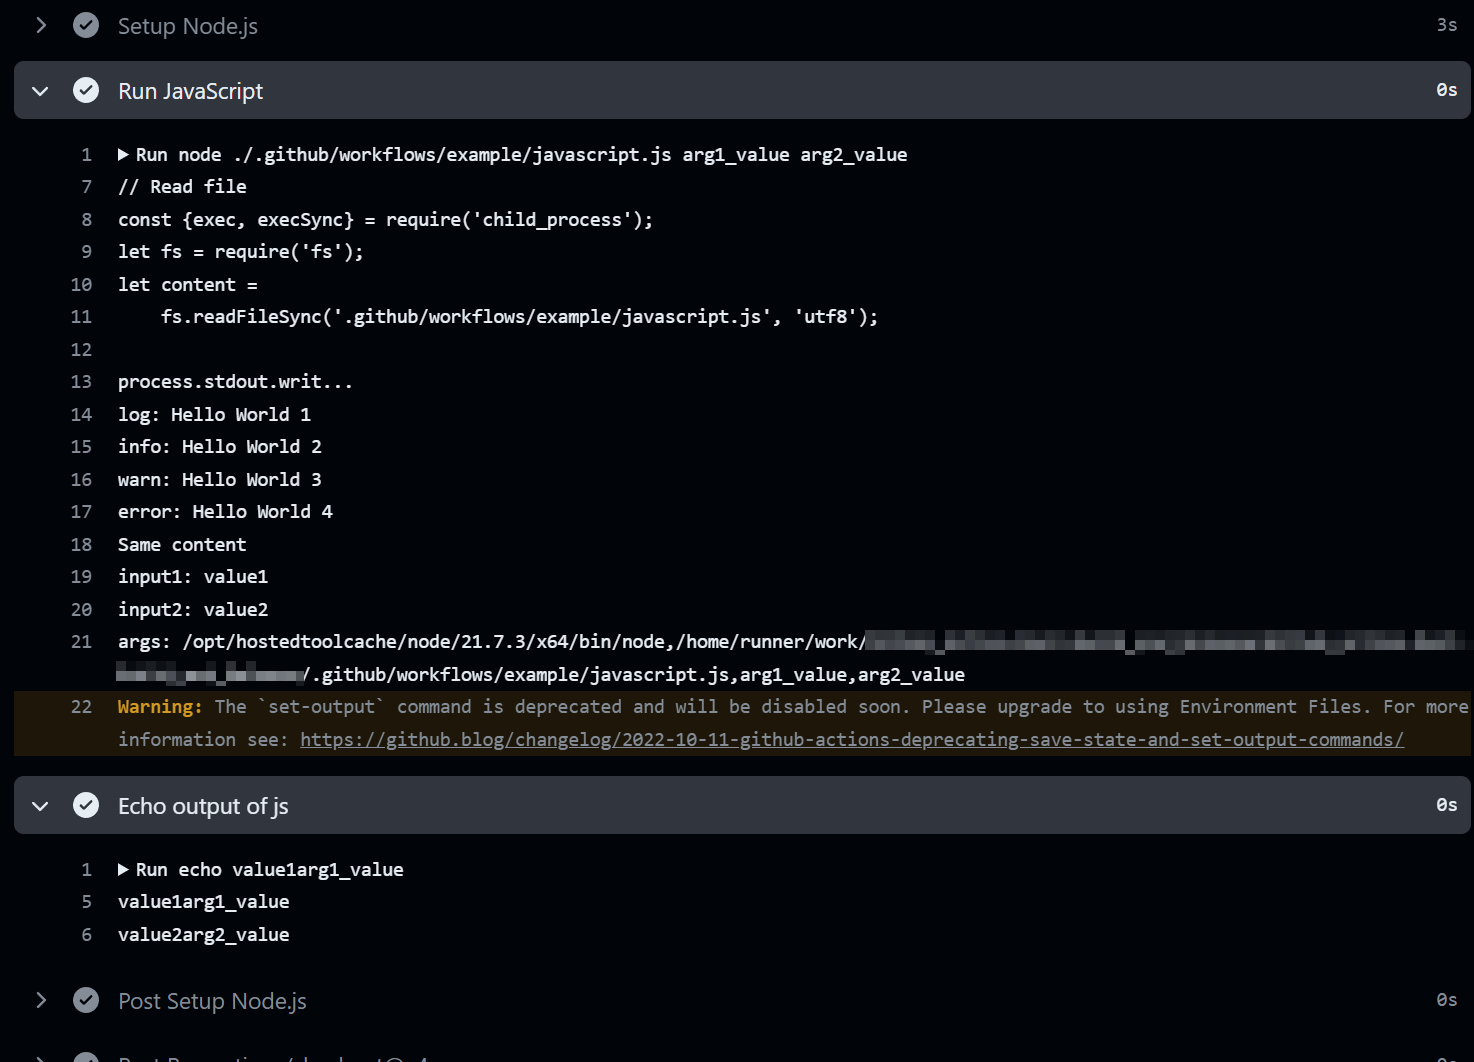
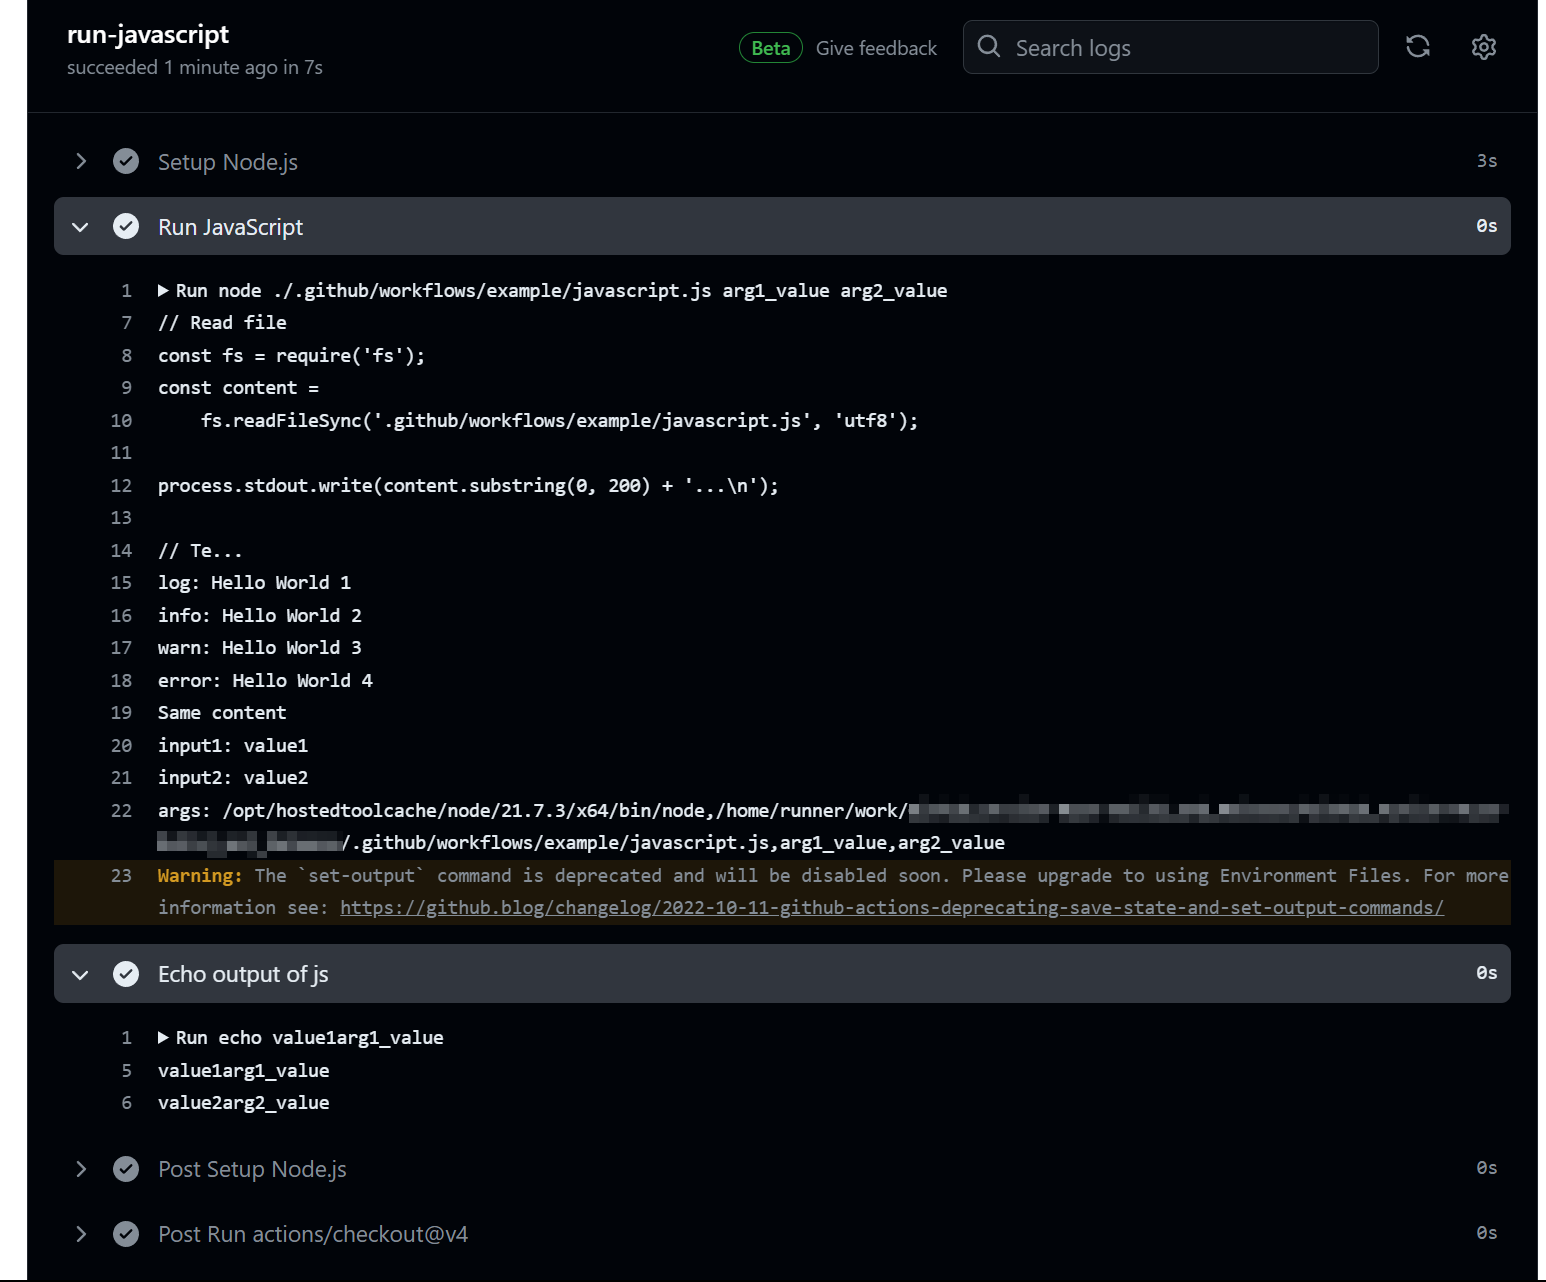
updateupdate

Changed region(s): [[0.0, 0.0, 1.0, 1.0], [0.4681, 0.3729, 0.4993, 0.404]]

diff --git a/tutorial.md b/tutorial.md
@@ -23,12 +23,12 @@
   - [设置和使用环境变量, 在步骤间传递参数, 在工作间传递参数](#环境参数的定义,-使用,-与传递)
   - 在工作间传递文件
 - 进阶 - 运行其它格式的脚本
-  - [Javascript 脚本](#镇楼)
+  - [Javascript 脚本](#运行-javascript-脚本)
   - Python 脚本
 - 进阶 - 外部 Action 的使用
   - 上传文件到 workflow: actions/upload-artifact@v4 [(repo hyperlink)](https://github.com/actions/upload-artifact)
   - 使用仓库的文件和代码: actions/checkout@v4 [(repo hyperlink)](https://github.com/actions/checkout)
-  - 创建和发布 release
+  - 创建和发布 release: actions/create-release@v1 [(repo hyperlink)](https://github.com/actions/create-release), actions/upload-release-asset@v1 [(repo hyperlink)](https://github.com/actions/upload-release-asset)
 - 进阶 - Github REST API
 - 高级 - 更多技巧
   - Matrix 矩阵, 复用代码
@@ -549,6 +549,23 @@ fs.writeFileSync(process.env.GITHUB_OUTPUT, 'output2=' + env2 + arg2);
 
 ```
 
-javascript
+上面的 js 展示了几个非常常用的 node js 技巧,  
+- 首先, 是读文件, 我们需要 require('fs') 库. 然后直接同步读取文件内容即可.
+- 其次是输出到控制台, 通常情况下, log/info/warn/error 不会有多大的区别, 如果你发现 console.log 的输出没有打印出来, 可以试试 console.warn 等.
+- 接着, 是执行 shell 脚本. 有些时候我们需要从 shell 脚本的输出结果中获取信息, 我们在执行后将返回值 toString 即可获得输出内容. 比较的结果显示 output2 保存的正是 content1 同样的文本.
+- 然后, 从输入参数, 环境变量中获取信息. Javascript 毕竟是为了简化 shell 脚本, 将一些信息提前并转化为其它信息. 输入参数与环境变量分别存储在 `process.argv` 和 `process.env` 中供取用.
+- 最后, 就是返回输出信息. 这里的返回值不是通过 return 的形式返回的, 我们通过向控制台输出 `:set-output name={name}::{value}` 来将 value 保持为单步的输出, 供下一步使用. 然而, 这种方式以及过时了, 更好的办法是 `fs.writeFileSync(process.env.GITHUB_OUTPUT, 'name={name}');` 来完成.
 
-![run-javascript](image-13.png)
+观察我们的 输出结果, 看到, 首先打印了文件的前 200 字, 然后测试了四种输出方式均无异常, 接着执行shell命令获取了文件的字符串, 和直接读取的结果一致. 然后展示了可以获取和保存变量.
+下一步我们打印了两个输出的变量, 证明了保持的成功性.
+
+![javascript-output](image-13.png)
+
+### 更好的执行脚本
+
+我们可以用外部库 [actions/github-script](https://github.com/actions/github-script)
+
+它有一些更高级的功能.
+
+
+我先写到这, 哪天有时间再写.
